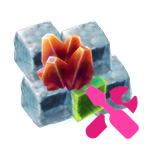
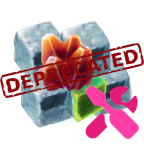
refactor: migrate to frozen goodies and more

Changed region(s): [[0.0, 0.2778, 1.0, 0.6944]]

diff --git a/README.md b/README.md
@@ -1,27 +1,6 @@
 [![The Foundry](https://img.shields.io/badge/foundrygg-4a1402?style=for-the-badge&logo=vercel&logoColor=white)](https://foundrygg.com/)
 [![Discord community](https://img.shields.io/badge/Discord-%235865F2.svg?style=for-the-badge&logo=discord&logoColor=white)](https://discord.gg/SYmkaDjFCt)
-[![Factorio mod portal](https://img.shields.io/factorio-mod-portal/dt/frozen-goodies-tweaks?style=for-the-badge&logo=data%3Aimage%2Fx-icon%3Bbase64%2CAAABAAEAEBAAAAEACABoBQAAFgAAACgAAAAQAAAAIAAAAAEACAAAAAAAAAEAAAAAAAAAAAAAAAEAAAAAAAAAAAAALzAtABIVFwBBOSwAISYpAB0iJACTfFQAICQnAEk%2FLAAcICIAsZZlADs4MABsXUIAd2hMAINzVgChi2QAPTozAIt6WwAWGhsAs5prABwgIwC1nG4AKSglAEpGOwBhVDwAGx4hAGJUPABoXkkAMiwiAGleSQCwmW8AtJpsALigdABnXEcAi3ZPAFhNOACDb0sAIicqAEtCLwAxMzEAEhQWAE1EMgAgJSgAISUoAJV%2FWACrkmQAHyMmAIFwUgAbHyEAsJVkAG5gRgAXGxwAHSEkAKCKYwCzmWoAsJhtACIhHAAbHyIAeWtRADo3MACxmnAAtZttACMoKgAaHSAAPzcoABYZGwASFRYAX1ZEAINwTABKRTsAIygrAJqDWABoXUkAHyQmAAAAAAAAAAAAAAAAAAAAAAAAAAAAAAAAAAAAAAAAAAAAAAAAAAAAAAAAAAAAAAAAAAAAAAAAAAAAAAAAAAAAAAAAAAAAAAAAAAAAAAAAAAAAAAAAAAAAAAAAAAAAAAAAAAAAAAAAAAAAAAAAAAAAAAAAAAAAAAAAAAAAAAAAAAAAAAAAAAAAAAAAAAAAAAAAAAAAAAAAAAAAAAAAAAAAAAAAAAAAAAAAAAAAAAAAAAAAAAAAAAAAAAAAAAAAAAAAAAAAAAAAAAAAAAAAAAAAAAAAAAAAAAAAAAAAAAAAAAAAAAAAAAAAAAAAAAAAAAAAAAAAAAAAAAAAAAAAAAAAAAAAAAAAAAAAAAAAAAAAAAAAAAAAAAAAAAAAAAAAAAAAAAAAAAAAAAAAAAAAAAAAAAAAAAAAAAAAAAAAAAAAAAAAAAAAAAAAAAAAAAAAAAAAAAAAAAAAAAAAAAAAAAAAAAAAAAAAAAAAAAAAAAAAAAAAAAAAAAAAAAAAAAAAAAAAAAAAAAAAAAAAAAAAAAAAAAAAAAAAAAAAAAAAAAAAAAAAAAAAAAAAAAAAAAAAAAAAAAAAAAAAAAAAAAAAAAAAAAAAAAAAAAAAAAAAAAAAAAAAAAAAAAAAAAAAAAAAAAAAAAAAAAAAAAAAAAAAAAAAAAAAAAAAAAAAAAAAAAAAAAAAAAAAAAAAAAAAAAAAAAAAAAAAAAAAAAAAAAAAAAAAAAAAAAAAAAAAAAAAAAAAAAAAAAAAAAAAAAAAAAAAAAAAAAAAAAAAAAAAAAAAAAAAAAAAAAAAAAAAAAAAAAAAAAAAAAAAAAAAAAAAAAAAAAAAAAAAAAAAAAAAAAAAAAAAAAAAAAAAAAAAAAAAAAAAAAAAAAAAAAAAAAAAAAAAAAAAAAAAAAAAAAAAAAAAAAAAAAAAAAAAAAAAAAAAAAAAAAAAAAAAAAAAAAAAAAAAAAAAAAAAAAAAAAAAADExMTExEyAgEzExMTExADExMRMVCi8EBC8KFTYxMTExMT0OGx5DJSVDHkgRHzExMTEyB0YnRiUlPidGBw0xMTExGi5GJS4JOS4lRkkpMTExHzcrRi4SHEBBLkYrNxUKMTpFRiUURDExRAklRhchLTE%2FKyU%2BCzExMTE7JSUqGSwxAj8qRgEVCgoVEEYqPwIGMSQMSUYlHTw8HSVGSQwiMTExDwclJSVGRiUlPgc1MTExMQMwNBQuJSUuFAU5IzExMTEiOEImFklJFiYCKCQxMTExMUckMRgzMxgxJCIxMTExMTExMTEiCAgiMTExMTExADExMTExMTExMTExMTExAIABAAAAAAAAAAAAAAAAAAAAAAAAAAAAAAAAAAAAAAAAAAAAAAAAAAAAAAAAAAAAAAAAAAAAAAAAAAAAAIABAAA%3D&color=orange&labelColor=rgb(111,148,173))](https://mods.factorio.com/mod/frozen-goodies-tweaks)
-[![Crowdin translate](https://img.shields.io/badge/Crowdin-Translate-cornflowerblue?style=for-the-badge)](https://crowdin.com/project/factorio-mods-localization)
-[![GitHub issues: bugs](https://img.shields.io/github/issues/QuingKhaos/frozen-goodies-tweaks/bug?label=Bug%20Reports&style=for-the-badge&logo=github)](https://github.com/QuingKhaos/frozen-goodies-tweaks/issues?q=is%3Aissue%20state%3Aopen%20label%3Abug)
-[![GitHub pull requests](https://img.shields.io/github/issues-pr/QuingKhaos/frozen-goodies-tweaks?label=Pull%20Requests&style=for-the-badge&logo=github)](https://github.com/QuingKhaos/frozen-goodies-tweaks/pulls)
 
-# Frozen Goodies Tweaks
+# [DEPRECATED] Frozen Goodies Tweaks
 
-Opinionated tweaks to [Frozen Goodies](https://mods.factorio.com/mod/frozen-goodies). For a full list of changes, take a
-look at the changelog.
-
-## All my frozen goodies mods
-
-- [Frozen Goodies for Wooden Aquilo: Seabloom Algaculture][aquilo-seabloom-algaculture] - Adds frozen goodies support to
-  Seabloom Algaculture.
-- [Frozen Goodies Base Assets][base-assets] - Base assets to dynamically create frozen goodies with layers.
-- [Frozen Goodies for Wooden Fulgora: Coralmium Agriculture][fulgora-coralmium-agriculture] - Adds frozen goodies support
-  to Coralmium Agriculture.
-- [Frozen Goodies for Lignumis][lignumis] - Adds frozen goodies support to Lignumis.
-- [Frozen Goodies Tweaks][tweaks] - Opinionated tweaks to Frozen Goodies.
-
-[aquilo-seabloom-algaculture]: https://mods.factorio.com/mod/frozen-goodies-aquilo-seabloom-algaculture
-[base-assets]: https://mods.factorio.com/mod/frozen-goodies-base-assets
-[fulgora-coralmium-agriculture]: https://mods.factorio.com/mod/frozen-goodies-fulgora-coralmium-agriculture
-[lignumis]: https://mods.factorio.com/mod/frozen-goodies-lignumis
-[tweaks]: https://mods.factorio.com/mod/frozen-goodies-tweaks
+Functionality migrated to [Frozen Goodies and More](https://mods.factorio.com/mod/frozen-goodies-and-more).